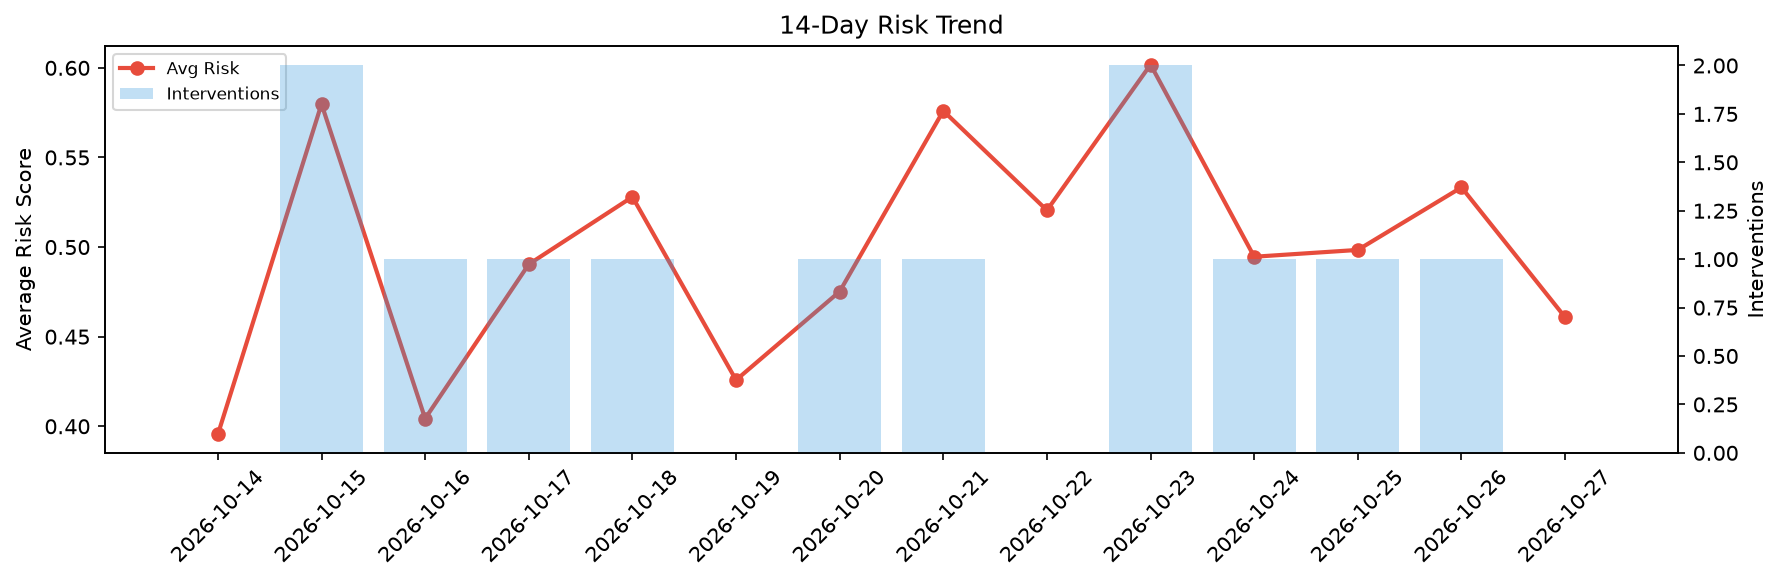
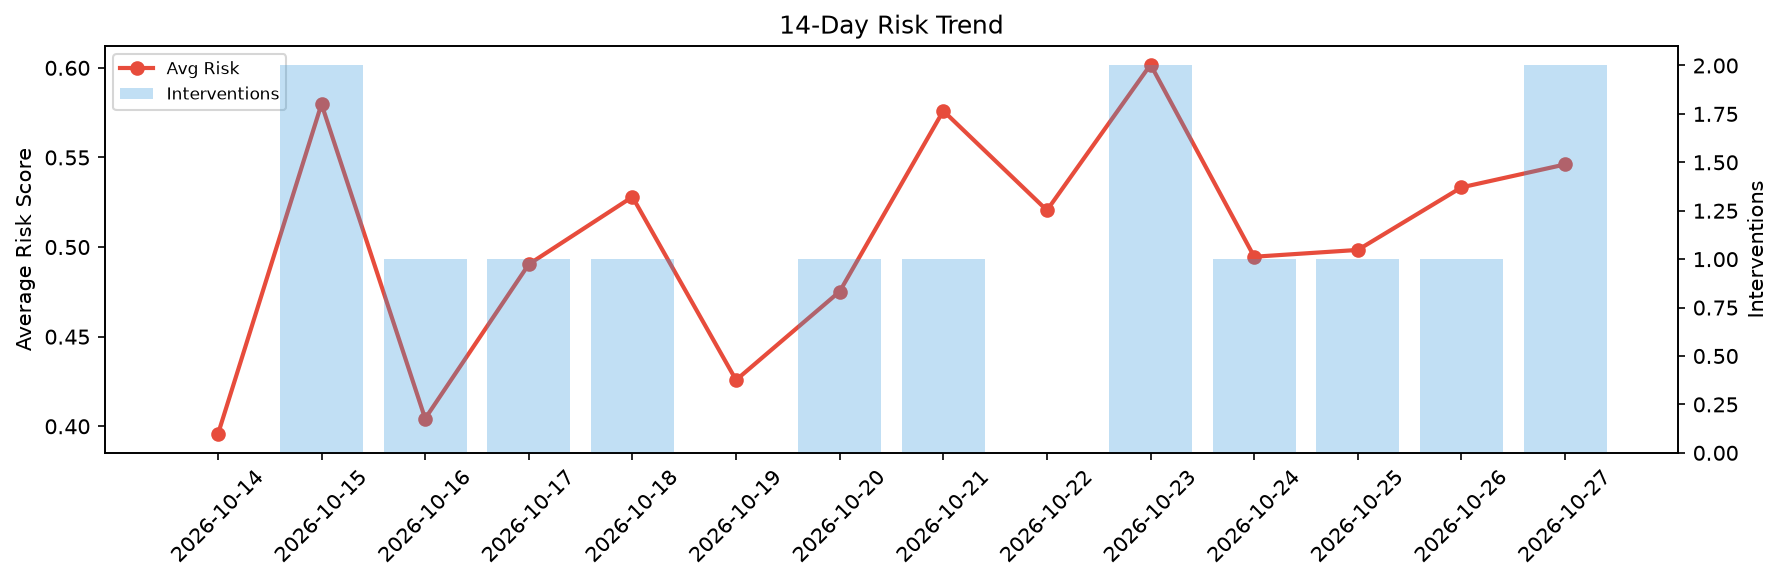
agent-improvement: daily cycle 2026-10-27T23:45

Changed region(s): [[0.802, 0.0928, 0.9254, 0.8041]]

diff --git a/logs/2026-10-27.md b/logs/2026-10-27.md
@@ -1,6 +1,6 @@
 # Agent Improvement Report — 2026-10-27
 
-**Cycle ID:** `02a11d94` | **Avg Risk:** 0.4608 | **Interventions:** 0/4
+**Cycle ID:** `d8db97ab` | **Avg Risk:** 0.5461 | **Interventions:** 2/4
 
 ![Dashboard](2026-10-27_dashboard.png)
 
@@ -10,18 +10,18 @@
 
 | Domain | Risk Score | Decision | Alerts |
 |--------|-----------|----------|--------|
-| code_review | 0.4446 | monitor | duplication |
-| incident_response | 0.5193 | monitor | none |
-| data_pipeline | 0.4428 | monitor | none |
-| deployment | 0.4365 | monitor | none |
+| code_review | 0.6835 | intervene | coverage |
+| incident_response | 0.6584 | intervene | blast_radius |
+| data_pipeline | 0.2532 | monitor | none |
+| deployment | 0.5892 | monitor | latency_p99 |
 
 ## Delta vs Yesterday
 
 | Domain | Today | Yesterday | Change |
 |--------|-------|-----------|--------|
-| code_review | 0.4446 | 0.4622 | 📉 -3.8% |
-| incident_response | 0.5193 | 0.6893 | 📉 -24.7% |
-| data_pipeline | 0.4428 | 0.5245 | 📉 -15.6% |
-| deployment | 0.4365 | 0.4574 | 📉 -4.6% |
+| code_review | 0.6835 | 0.4622 | 📈 47.9% |
+| incident_response | 0.6584 | 0.6893 | 📉 -4.5% |
+| data_pipeline | 0.2532 | 0.5245 | 📉 -51.7% |
+| deployment | 0.5892 | 0.4574 | 📈 28.8% |
 
 **Refinement:** `{'adjustment': 'maintain', 'trend': 'improving', 'window': 4}`
